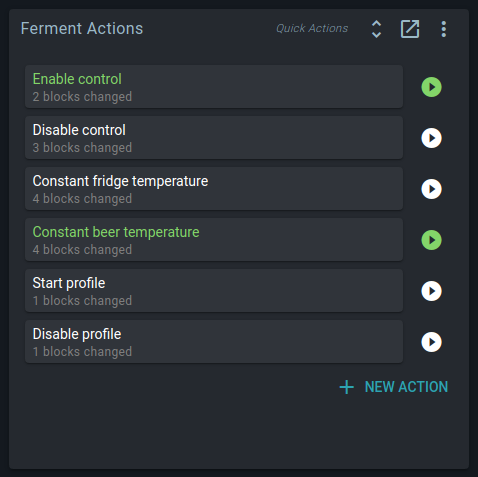
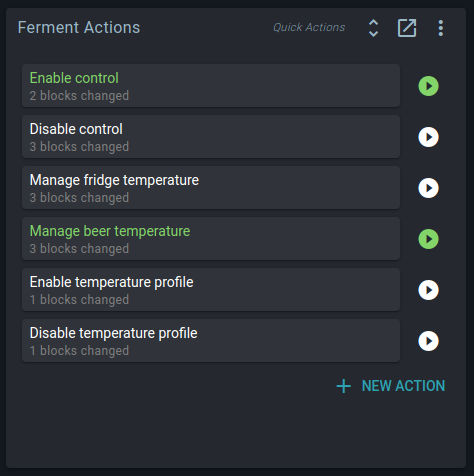
update gifs and descriptions for admin page / ferment

diff --git a/docs/user/ferment_guide.md b/docs/user/ferment_guide.md
@@ -21,13 +21,13 @@ The contents of your fridge will now be heated or cooled to make measured value 
 They will not be turned on by the system.
 If they were on, they will be turned off.
 
-**Constant fridge temperature** switches PID control to monitor your fridge temperature. Your PID settings will be adjusted.
+**Manage fridge temperature** switches PID control to monitor your fridge temperature. Your PID settings will be adjusted.
 This does not automatically enable control.
 
-**Constant beer temperature** switches PID control to monitor your beer temperature. Your PID settings will be adjusted.
+**Manage beer temperature** switches PID control to monitor your beer temperature. Your PID settings will be adjusted.
 This does not automatically enable control.
 
-**Start profile** enables the *Setpoint Profile*. This block will automatically adjust your setpoint setting to follow the configured profile. (more on this below)
+**Enable profile** enables the *Setpoint Profile*. This block will automatically adjust your setpoint setting to follow the configured profile. (more on this below)
 
 **Disable profile** disables the *Setpoint Profile* block.
 You can now manually edit the setpoint setting again, and the setting will not change over time.
@@ -37,23 +37,22 @@ You can now manually edit the setpoint setting again, and the setting will not c
 ### Bring beer to a constant 20°C
 
 - Set the beer setpoint setting to 20°C
-- Use **Constant beer temperature**
+- Use **Manage beer temperature**
 - Use **Enable control**
 
-![Enable static control](../images/enable-static-control.gif)
+![Enable static control](../images/enable-beer-control.gif)
 
 ### Bring the fridge to a constant 20°C
 
 - Set the fridge setpoint setting to 20°C
-- Use **Constant fridge temperature**
+- Use **Manage fridge temperature**
 - Use **Enable control**
 
-![Enable static control](../images/enable-static-control.gif)
+![Enable fridge control](../images/enable-fridge-control.gif)
 
 ### Start a temperature profile
 
-- Use **Enable control**
-- Use **Start profile**
+- Use **Enable profile**, and set start time to the desired value.
 
 ![Enable temperature profile](../images/enable-profile-control.gif)
 

diff --git a/docs/user/startup.md b/docs/user/startup.md
@@ -362,15 +362,12 @@ There's no need to panic. Click advanced, and proceed to the page.
 ## Step 8: Use the system
 
 By default, temperature values are in Celsius. If you prefer Fahrenheit, now is a good time to configure that.
-The unit settings can be found on the Settings page, accessible through the sidebar.
+The unit settings can be found on the *admin* page, accessible through the sidebar.
 
-You can also use the settings page to connect your Spark to your Wifi network.
+You can also use the admin page to connect your Spark to your Wifi network.
 
-To easily replicate functionality from the original BrewPi, you can run the `Fermentation Fridge` wizard.
+To easily replicate functionality from the original BrewPi, you can click the *Get Started* button, and run* the `Fermentation Fridge` wizard.
 This will generate a set of blocks and widgets, configured to let you control the brew in your fridge.
-
-![Start Ferment wizard](../images/ferment-wizard.gif)
-
 
 ## Later: Updating
 
